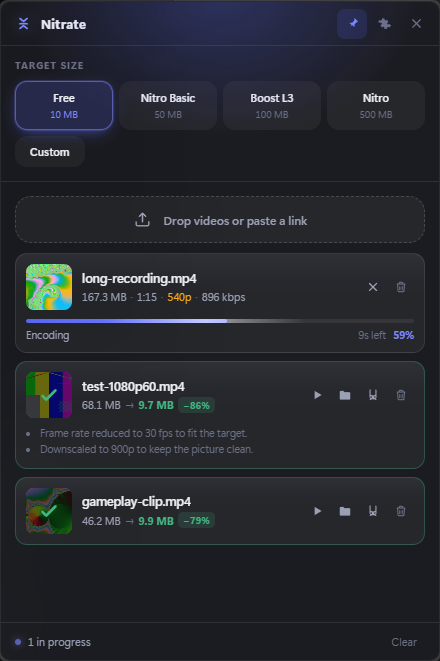
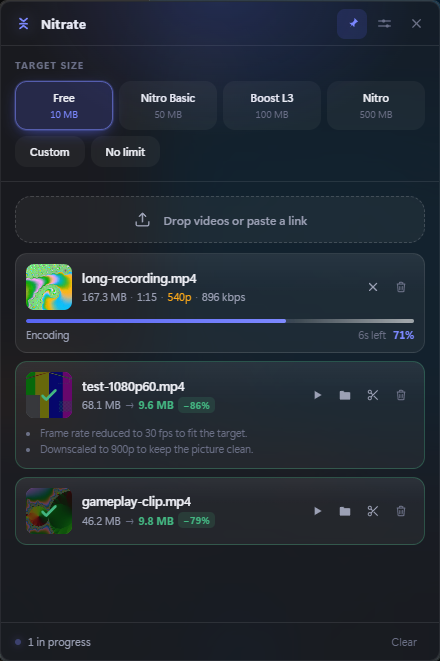
Refresh screenshots and README for v0.3.0
All four screenshots retaken against the current build, plus a new one
for the long-video hold-back. The old set predated the scissors and
sliders icons, the No limit target, the play button and the editor's
compression panel.

Reworded the editor section: it now explains what the readout does
rather than claiming the screenshot captures a specific amber-to-green
moment, which it no longer does.

diff --git a/README.md b/README.md
@@ -24,7 +24,7 @@ paying for Nitro.
 <table>
 <tr>
 <td width="33%" valign="top">
-<img src="docs/screenshot-empty.png" alt="The drop zone, with target size tabs for 10, 50, 100 and 500 MB" width="100%">
+<img src="docs/screenshot-empty.png" alt="The drop zone, with target size tabs for 10, 50, 100 and 500 MB plus custom and no limit" width="100%">
 <p align="center"><sub><b>Pick a size, drop a file</b></sub></p>
 </td>
 <td width="33%" valign="top">
@@ -32,8 +32,8 @@ paying for Nitro.
 <p align="center"><sub><b>Every file, its own progress</b></sub></p>
 </td>
 <td width="33%" valign="top">
-<img src="docs/screenshot-done.png" alt="Three finished videos showing 167 MB down to 9.3 MB, 68 MB to 9.7 MB and 46 MB to 9.9 MB" width="100%">
-<p align="center"><sub><b>167 MB → 9.3 MB</b></sub></p>
+<img src="docs/screenshot-done.png" alt="Three finished videos showing 167 MB down to 9.2 MB, 68 MB to 9.6 MB and 46 MB to 9.8 MB" width="100%">
+<p align="center"><sub><b>167 MB → 9.2 MB</b></sub></p>
 </td>
 </tr>
 </table>
@@ -55,9 +55,8 @@ paying for Nitro.
 - **Or forget the limit entirely.** Pick **No limit** and it compresses well and
   lets the size land where it lands — the sane choice for a long recording,
   where no particular megabyte figure is the right answer.
-- **Long videos wait for you.** Anything over twenty minutes doesn't start on its
-  own: squeezing an hour into 10 MB is a long wait for something unwatchable, and
-  usually you wanted one moment out of it. It says so, and hands you the editor.
+- **Long videos wait for you** rather than grinding away at something you didn't
+  want. More on that below.
 - **Nothing is uploaded.** Every frame is encoded on your own machine.
 - **It gets out of the way.** Files land in Downloads. Close the window and it
   waits in the tray.
@@ -81,17 +80,18 @@ time.
 Drag a crop rectangle — freeform or locked to 16:9, 1:1, 9:16 or 4:5 — and drag
 the handles on the filmstrip to set where the clip starts and ends.
 
-**The readout updates as you drag, and that's the point.** Trimming and cropping
-both feed straight back into the bitrate budget: cut a ten-minute clip to thirty
-seconds and the same 10 MB buys roughly twenty times the bitrate. In the
-screenshot, cropping to a square is what let this clip keep its full 1080 lines
-instead of dropping to 900p — the readout turns from amber to green when that
-happens.
+**The readout at the bottom updates as you drag, and that's the point.** Trimming
+and cropping both feed straight back into the bitrate budget: cut a ten-minute
+clip to thirty seconds and the same 10 MB buys roughly twenty times the bitrate.
+Crop a 16:9 clip to a square and there are fewer pixels to fill, so the
+resolution it can hold goes up.
 
-So the editor isn't a separate tool bolted on. It's a quality dial.
+It shows the resolution you'll actually get, in green when the source survives
+intact and amber when it has to come down. Drag the trim handles wider and watch
+it flip. So the editor isn't a separate tool bolted on — it's a quality dial.
 
 The target size and codec live in here too, starting from whatever the main
-window says and overridable for this one video. That way **Compress** is never a
+window says and overridable for this one video, so **Compress** is never a
 mystery about what you're about to get.
 
 </td>
@@ -153,6 +153,29 @@ Three things turn that arithmetic into a result you can rely on:
 
 Newer codecs hold up at lower bitrates, so switching codec also changes when
 downscaling kicks in — H.265 and AV1 stay sharp well below where H.264 gives up.
+
+## Long videos don't run away with themselves
+
+<table>
+<tr>
+<td width="46%" valign="top">
+<img src="docs/screenshot-long.png" alt="A 34 minute video held back, with an amber note explaining that squeezing all of it into 10 MB would look poor" width="100%">
+</td>
+<td valign="top">
+
+Anything over twenty minutes doesn't start compressing on its own.
+
+Squeezing half an hour into 10 MB is a long wait for something unwatchable, and
+it's almost never what you meant — usually you wanted one moment out of it. So it
+says so, and hands you three ways out: trim a section, switch to **No limit**, or
+start it anyway.
+
+Pasted links still **download** as normal. Only the compression waits, so you
+land in the editor with a real file in front of you.
+
+</td>
+</tr>
+</table>
 
 ## Settings
 
